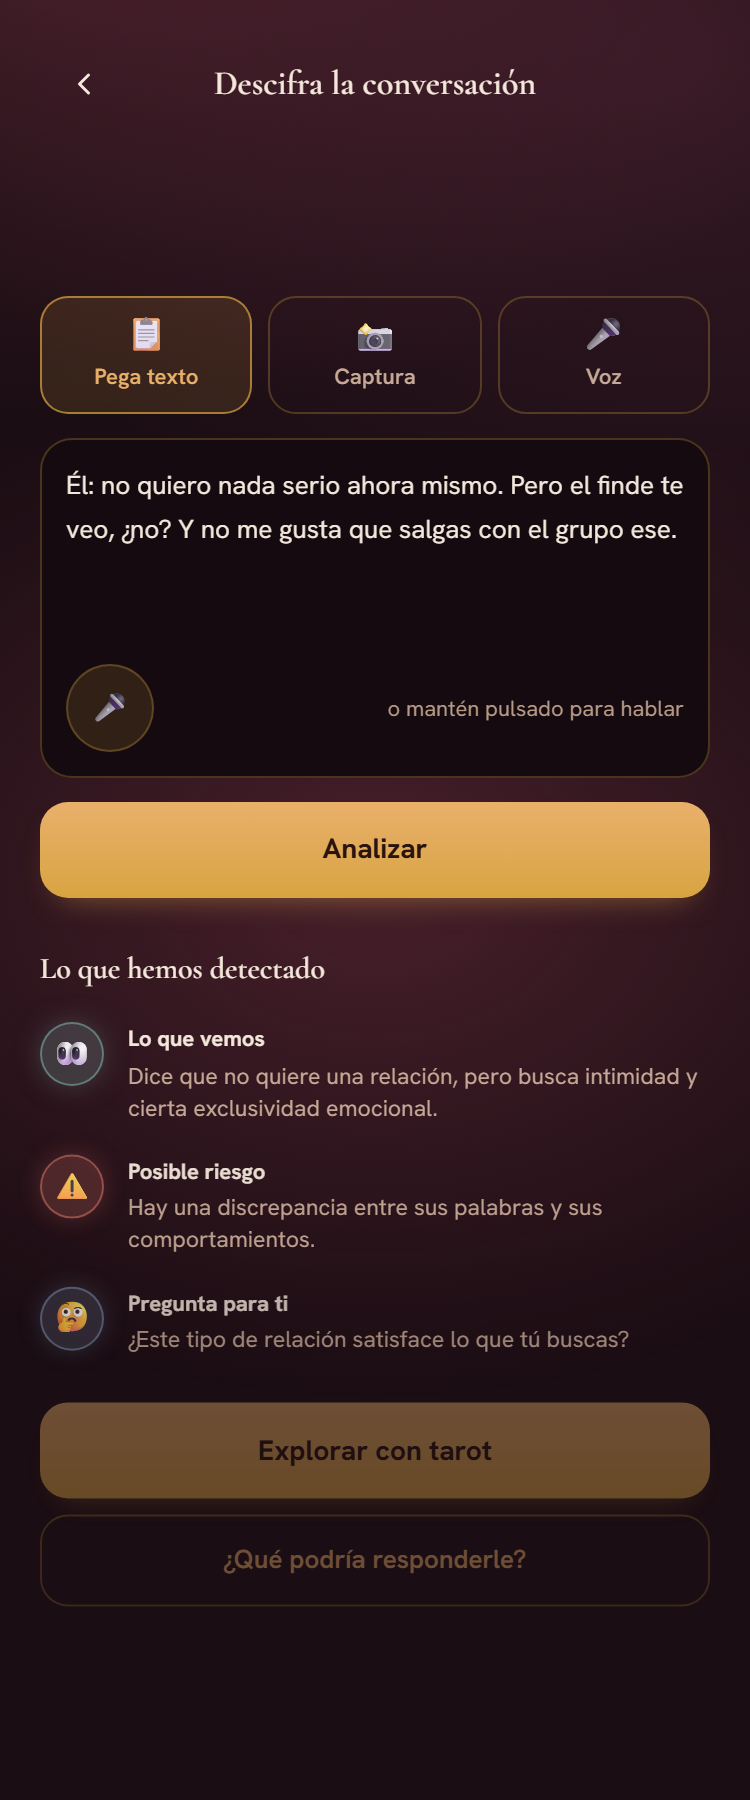
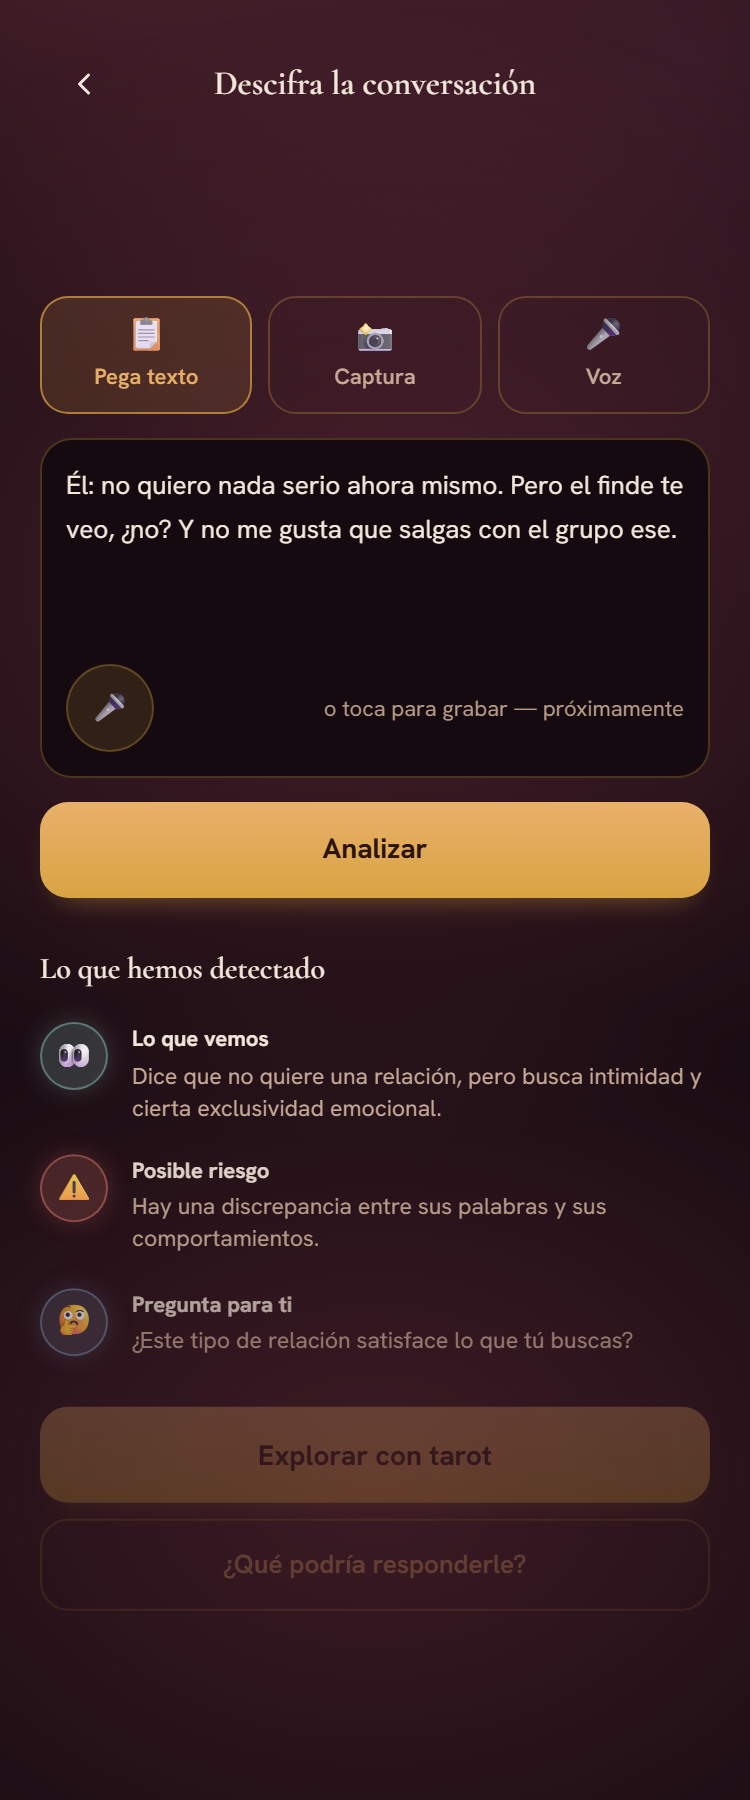
fix(sesion-5): descifra la conversacion — ronda 2 de correcciones
Segundo bloom anclado mas abajo para cubrir la franja inferior; texto
del microfono ahora coincide con el gesto real (tap, no mantener
pulsado); los 3 chips de modo tienen whileTap; el bloque inicial
(chips+textarea+CTA) entra con el mismo stagger que el resultado;
iconos del resultado a 34px segun FICHA-ARTE.

diff --git a/app/app/descifrar/page.tsx b/app/app/descifrar/page.tsx
@@ -54,19 +54,21 @@ export default function DescifrarPage() {
     <div className="relative flex min-h-dvh flex-col px-5 pb-6 pt-3">
       <div
         aria-hidden="true"
-        className="pointer-events-none absolute inset-x-0 top-1/4 -z-10 h-[30rem]"
+        className="pointer-events-none absolute inset-0 -z-10"
         style={{
           background:
-            'radial-gradient(520px 380px at 50% 45%, color-mix(in oklab, var(--bloom-vino) 55%, transparent), transparent 68%)',
+            'radial-gradient(520px 420px at 50% 32%, color-mix(in oklab, var(--bloom-vino) 55%, transparent), transparent 68%), ' +
+            'radial-gradient(480px 360px at 50% 82%, color-mix(in oklab, var(--bloom-vino) 42%, transparent), transparent 70%)',
         }}
       />
       <ScreenHeader titulo="Descifra la conversación" tituloDisplay />
 
-      <div className="flex flex-1 flex-col justify-center">
-        <div className="grid grid-cols-3 gap-2">
+      <motion.div variants={contenedor} initial="hidden" animate="visible" className="flex flex-1 flex-col justify-center">
+        <motion.div variants={item} className="grid grid-cols-3 gap-2">
           {MODOS.map((m) => (
-            <button
+            <motion.button
               key={m.id}
+              whileTap={{ scale: 0.97 }}
               type="button"
               onClick={() => setModo(m.id)}
               aria-pressed={modo === m.id}
@@ -80,18 +82,18 @@ export default function DescifrarPage() {
                 {m.emoji}
               </span>
               {m.label}
-            </button>
+            </motion.button>
           ))}
-        </div>
+        </motion.div>
 
         <AnimatePresence mode="wait">
           {modo === 'texto' ? (
             <motion.div
               key="texto"
-              initial={{ opacity: 0 }}
-              animate={{ opacity: 1 }}
+              initial={{ opacity: 0, y: 8 }}
+              animate={{ opacity: 1, y: 0 }}
               exit={{ opacity: 0 }}
-              transition={{ duration: 0.2 }}
+              transition={{ duration: 0.2, delay: 0.07 }}
             >
               <div className="mt-3 rounded-[var(--radius-card)] border border-[color-mix(in_oklab,var(--accent)_28%,transparent)] bg-[var(--surface-2)] p-3">
                 <textarea
@@ -113,7 +115,7 @@ export default function DescifrarPage() {
                   >
                     🎤
                   </button>
-                  <span className="text-[11px] text-[var(--text-tertiary)]">o mantén pulsado para hablar</span>
+                  <span className="text-[11px] text-[var(--text-tertiary)]">o toca para grabar — próximamente</span>
                 </div>
               </div>
 
@@ -192,7 +194,7 @@ export default function DescifrarPage() {
                 <motion.div key={a.id} variants={item} className="flex items-start gap-3">
                   <span
                     aria-hidden="true"
-                    className="flex size-8 shrink-0 items-center justify-center rounded-full text-[15px]"
+                    className="flex size-[34px] shrink-0 items-center justify-center rounded-full text-[15px]"
                     style={{
                       background: `color-mix(in oklab, ${a.color} 24%, transparent)`,
                       border: `1px solid color-mix(in oklab, ${a.color} 55%, transparent)`,
@@ -219,7 +221,7 @@ export default function DescifrarPage() {
             </motion.div>
           )}
         </AnimatePresence>
-      </div>
+      </motion.div>
     </div>
   );
 }

diff --git a/docs/revisiones/descifrar-veredicto.md b/docs/revisiones/descifrar-veredicto.md
@@ -22,3 +22,70 @@ Top defectos:
 5. Sin stagger en el cambio Texto/Captura/Voz (instantáneo, sin AnimatePresence) ni en la lista
    de 3 hallazgos (aparecen todos juntos, no escalonados) → envolver el panel de modo en fade y
    dar stagger 60-80ms a cada hallazgo, tal como exige la doctrina de movimiento baseline.
+
+---
+
+# VEREDICTO revisor-visual — Descifra la conversación (2ª ronda)
+Fecha: 2026-09-12 00:00
+Screenshot: docs/revisiones/descifrar-375.png (+ docs/revisiones/descifrar-resultado-375.png)
+Usabilidad: 29/40
+Craft: 15/20
+Copy (si vende): N-A
+Fidelidad (si hubo referencia): N-A
+Veredicto: NO LISTA
+
+Detalle usabilidad: h1:3 h2:4 h3:3 h4:3 h5:3 h6:3 h7:2 h8:2 h9:3 h10:3
+Detalle craft: jerarquía:3 profundidad:2 identidad:4 movimiento:3 encaje:3
+
+Verificación de los 5 defectos de la 1ª ronda:
+1. Vacío muerto (centrado vertical) → PARCIALMENTE CORREGIDO. El `flex flex-1 flex-col
+   justify-center` sí reparte el contenido, pero el bloom (`absolute top-1/4 h-[30rem]`, altura
+   fija) no llega a cubrir el último ~30-40% del viewport en el estado vacío: la franja bajo
+   "Probar con un ejemplo" vuelve a caer en un degradado plano hasta el borde inferior, la misma
+   familia de problema que el defecto original, en menor severidad.
+2. Blooms visibles → CORREGIDO en la franja central (detrás de chips/textarea/CTA se percibe el
+   resplandor cálido), pero no en los extremos superior e inferior de la pantalla vacía (ver #1).
+3. CTA "Analizar" nunca disabled por defecto → CORREGIDO, verificado en código
+   (`disabled={estado === 'cargando'}`, nunca por texto vacío) y en el screenshot (botón con
+   relleno oro pleno, sin opacity-50).
+4. Estado de error → CORREGIDO. `estado === 'error'` con mensaje qué-pasó + qué-hacer
+   ("Necesito un poco más de contexto — pega al menos un par de mensajes."), transición de
+   altura suave, se limpia solo al seguir escribiendo.
+5. Stagger/transición → CORREGIDO. `AnimatePresence mode="wait"` en el panel de modo (fade
+   200ms) + `staggerChildren: 0.07` real en los 3 hallazgos del resultado, cada uno como
+   `motion.div` independiente con variants. `prefers-reduced-motion` respetado a nivel global
+   vía `MotionConfig reducedMotion="user"` en `app/layout.tsx` (verificado en código).
+
+Top defectos (2ª ronda):
+1. [Estado vacío, franja inferior ~35-40% de la pantalla] El bloom radial no cubre la parte baja
+   del viewport (altura fija `h-[30rem]` anclada a `top-1/4`): tras "Probar con un ejemplo" el
+   fondo vuelve a ser un degradado plano sin textura hasta el borde inferior — repite, en menor
+   grado, el defecto original #1/#2 → extender el bloom (segundo blur anclado a bottom, o
+   `height` relativa al viewport) o comprimir el layout para que el contenido llegue más abajo
+   en vez de solo centrarlo con aire muerto arriba y abajo.
+2. [Caja de texto, ícono circular de micrófono] El hint dice "o mantén pulsado para hablar" pero
+   el botón solo tiene `onClick` (tap simple) que navega al modo "Próximamente" — la copia
+   promete un gesto de hold que no existe todavía → cambiar el texto a algo honesto ("toca para
+   grabar — próximamente") hasta que Voz esté conectado, o implementar el gesto real.
+3. [Selector Pega texto/Captura/Voz, los 3 chips] Sin `whileTap` ni ninguna respuesta de presión
+   (solo cambian de color vía estado, sin animación), mientras el resto de la app usa
+   `motion.button` con `scale 0.97` (AppButton) → añadir el mismo tap feedback para no romper la
+   baseline de movimiento #4 (tap <150ms visible).
+4. [Pantalla completa, primera carga del estado vacío] Falta stagger de entrada inicial: header,
+   chips de modo, textarea y CTA aparecen todos de golpe — las variants `contenedor`/`item` solo
+   se usan en el bloque de resultado, no en la carga inicial → envolver también el bloque inicial
+   en la misma animación escalonada (baseline de movimiento #1).
+5. [Íconos circulares de "Lo que hemos detectado"] `size-8` (32px) en vez de los 34px que fija la
+   Ronda de retoques de FICHA-ARTE.md → cambiar a `size-[34px]` para cumplir la especificación
+   registrada (desvío menor, no bloqueante).
+
+Lectura de la brecha (¿bugs concretos o pulido de rendimientos decrecientes?):
+NO es todavía pulido de rendimientos decrecientes — los 5 puntos de arriba son defectos
+concretos y accionables (una medida de CSS, una discrepancia copy/comportamiento, animaciones
+ausentes en componentes puntuales), no matices de gusto. Usabilidad está a 7 puntos del gate
+(29 vs 36) y Craft a 1 punto (15 vs 16): la distancia no es sutil todavía. A diferencia de
+landing/onboarding/paywall/inicio tras varias rondas, aquí solo va la 2ª ronda y el defecto
+raíz #1 de la 1ª ronda (vacío/fill plano) sigue sin resolverse del todo — es el mismo bug,
+mitigado pero no cerrado. Recomendación: vale una 3ª ronda dirigida SOLO a los 5 puntos de
+arriba (el #1 es el de mayor impacto en craft/profundidad) antes de considerar cierre por
+criterio propio.
